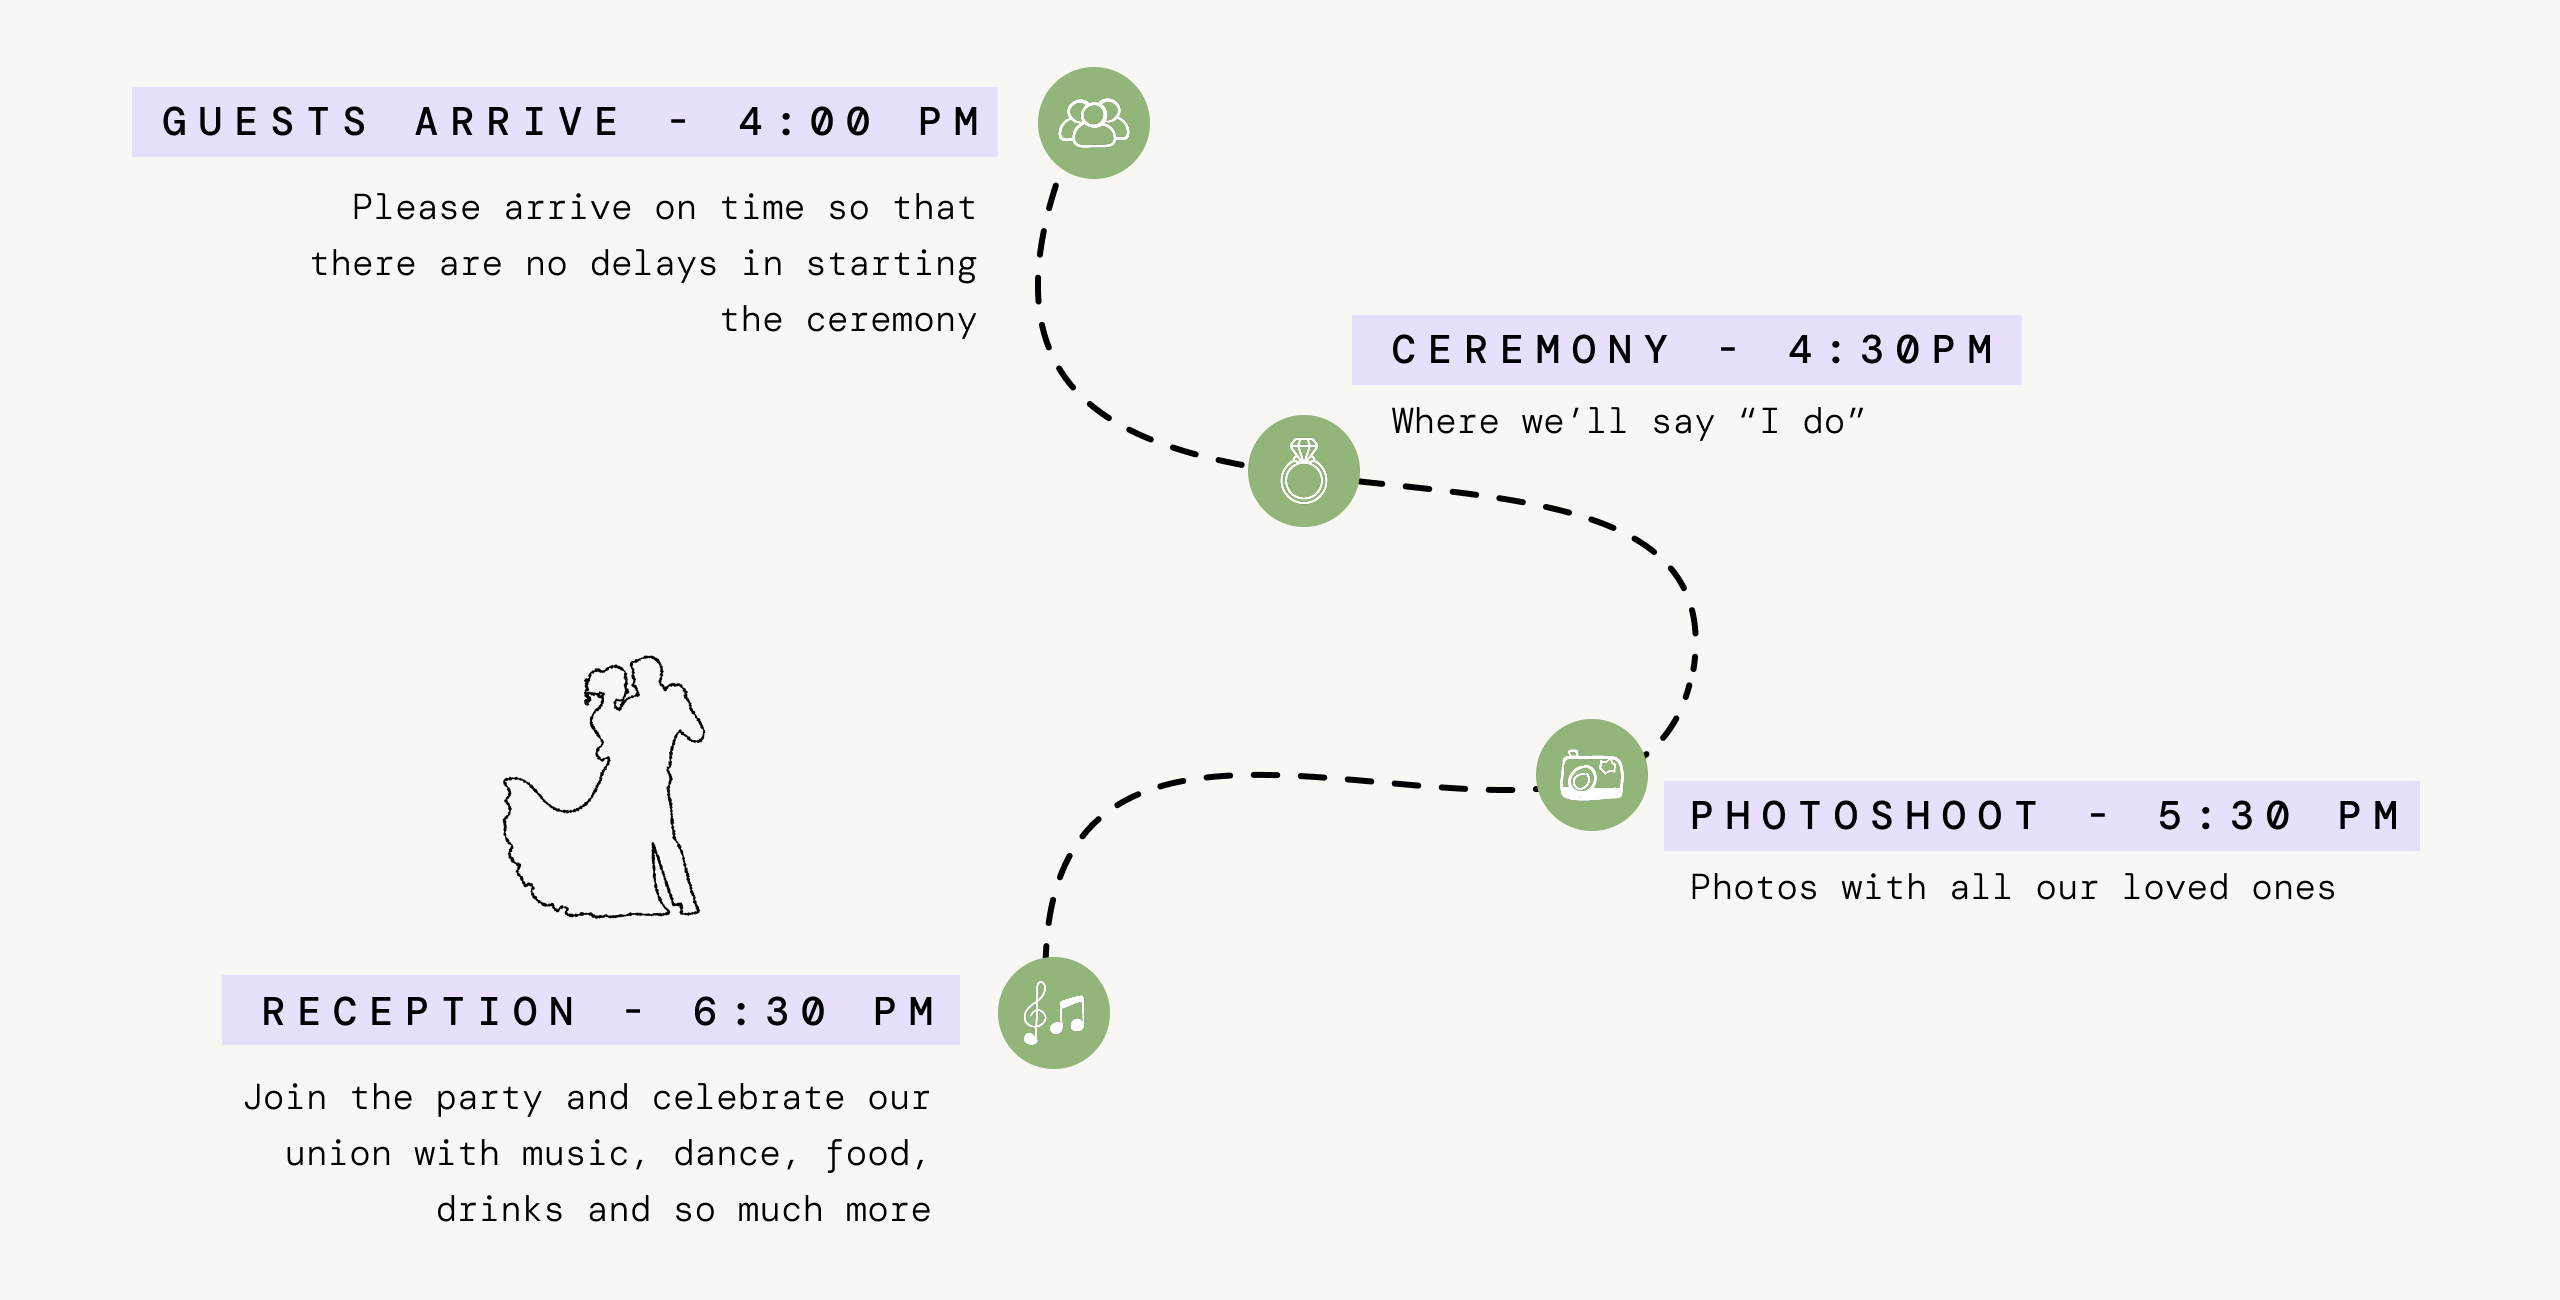
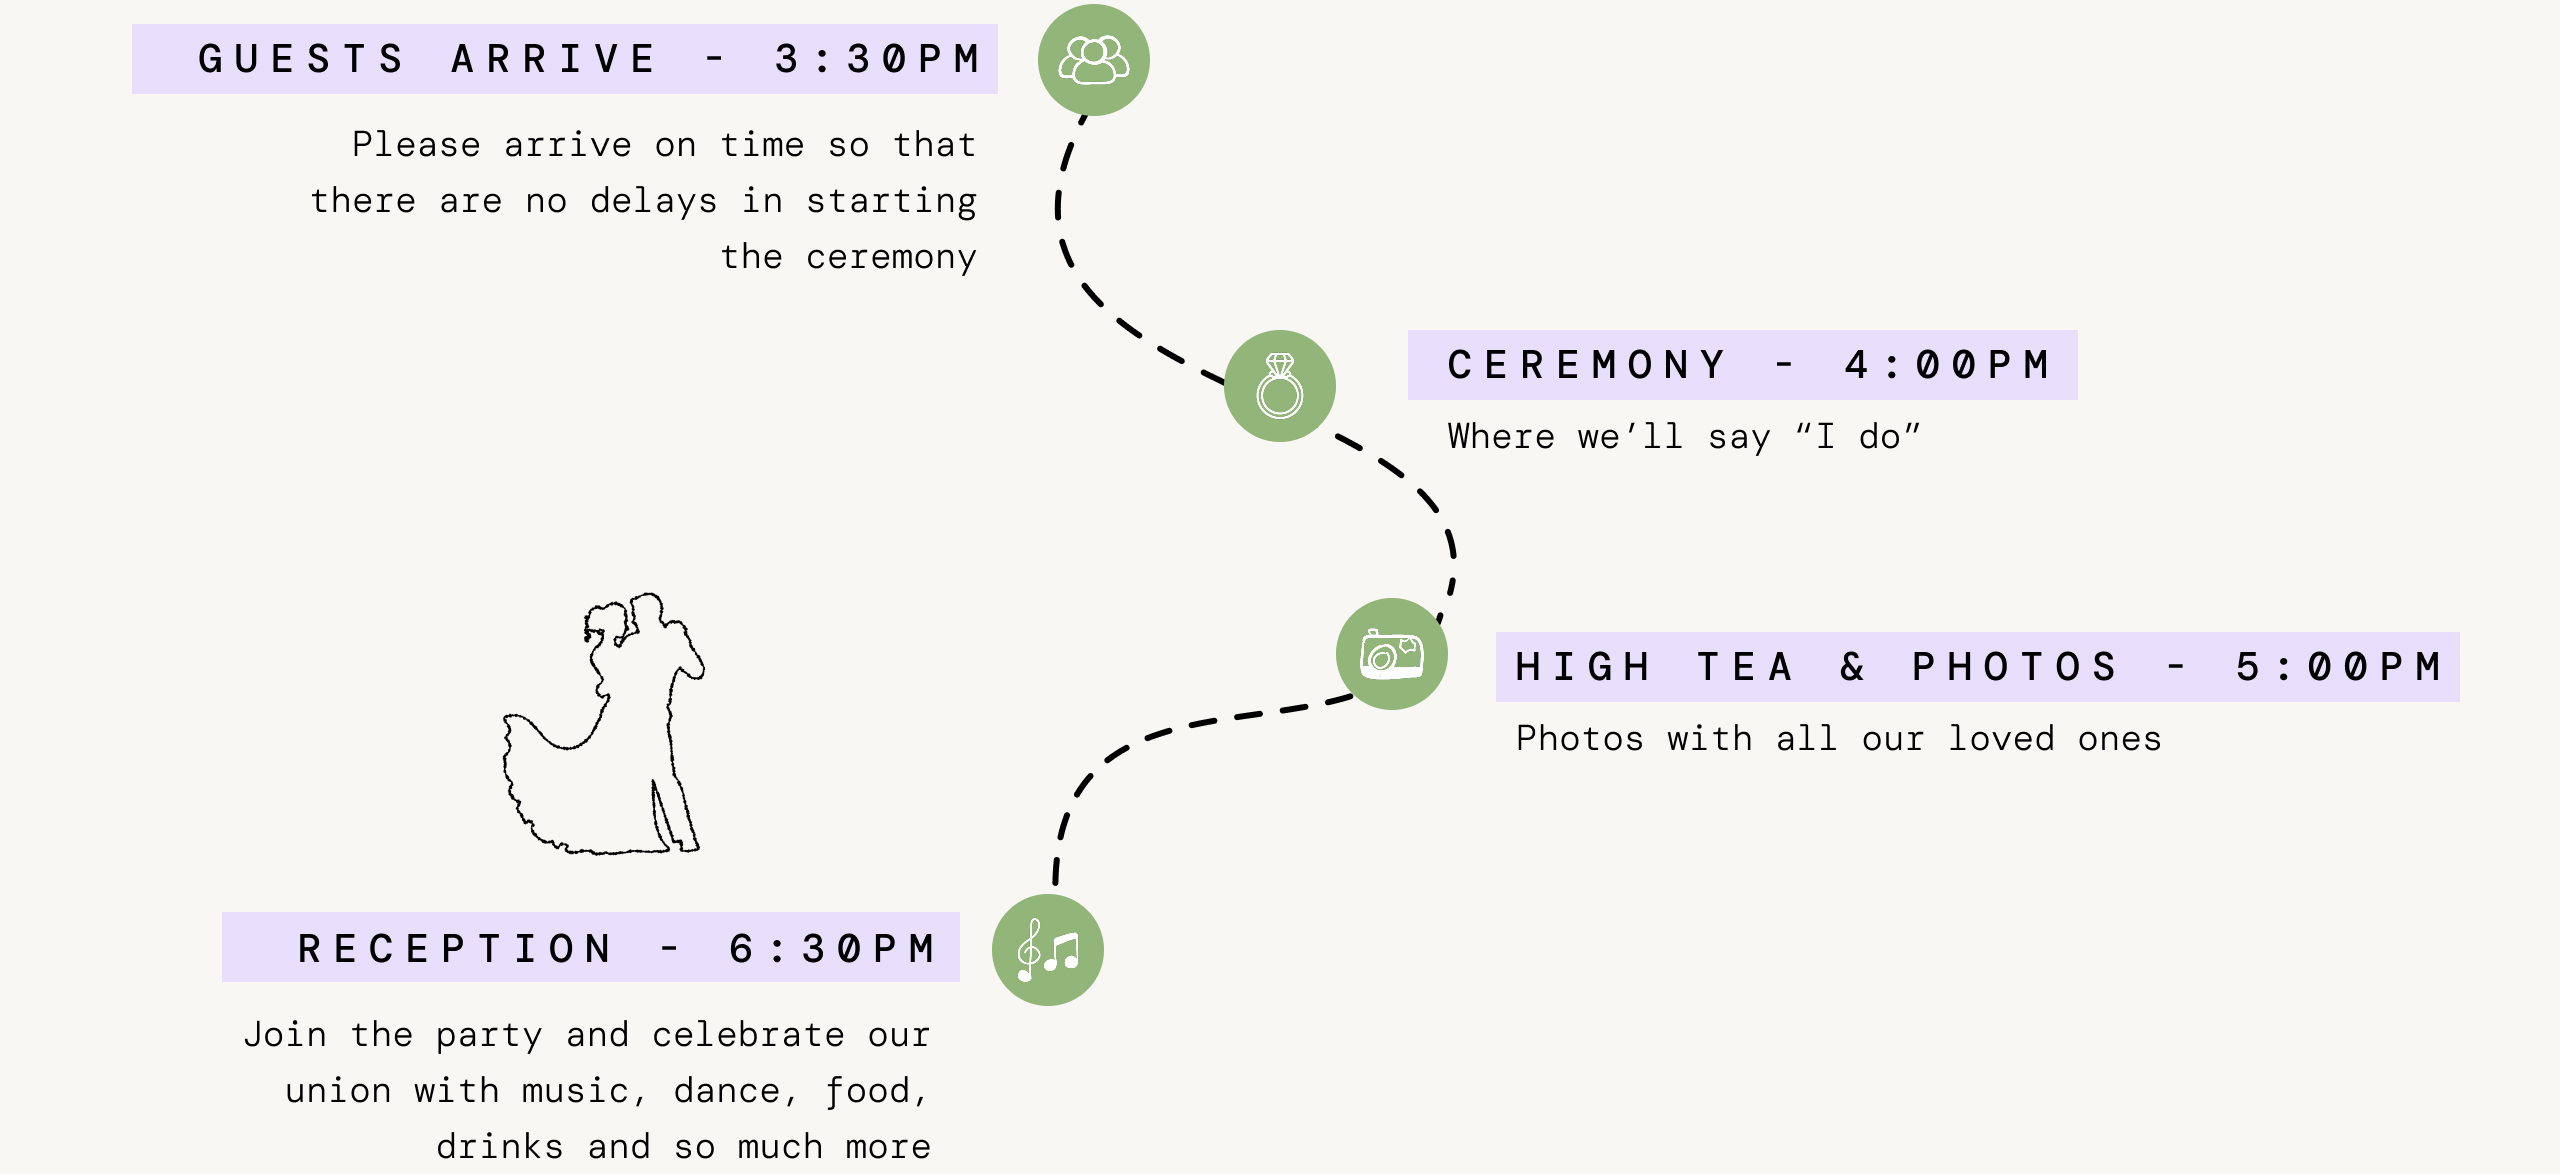
Amends

diff --git a/index.html b/index.html
@@ -128,15 +128,15 @@
       <!-- accessible equivalent of the roadmap graphic above, for screen readers only -->
       <ol class="sr-only timeline-accessible-list">
         <li>
-          <span class="timeline-accessible-time">Guests arrive &ndash; 4:00 PM.</span>
+          <span class="timeline-accessible-time">Guests arrive at venue &ndash; 3:00 PM.</span>
           Please arrive on time so that there are no delays in starting the ceremony.
         </li>
         <li>
-          <span class="timeline-accessible-time">Ceremony &ndash; 4:30 PM.</span>
+          <span class="timeline-accessible-time">Ceremony &ndash; 4:00 PM.</span>
           Where we'll say &ldquo;I do&rdquo;.
         </li>
         <li>
-          <span class="timeline-accessible-time">Photoshoot &ndash; 5:30 PM.</span>
+          <span class="timeline-accessible-time">Photoshoot &ndash; 5:00 PM.</span>
           Photos with all our loved ones.
         </li>
         <li>
@@ -153,7 +153,7 @@
         <span class="info-card-underline info-card-underline--dresscode"></span>
       </div>
       <div class="info-card-col-right">
-        <p class="info-card-intro">Dress to impress. Please wear Western formal attire for the <br> wedding day.</p>
+        <p class="info-card-intro">Dress to impress. Please wear Western ballroom attire for the <br> wedding day.</p>
         <div class="info-card-box info-card-box--dress">white & black are reserved for the
           bride & groom. please refrain from wearing <br> white or black.</div>
       </div>
@@ -184,8 +184,7 @@
       <span class="details-heading-line"></span>
     </div>
     <hr class="title-divider title-divider--details">
-    <p class="info-card-acc">For guests travelling from out of town, we have provided a selection of nearby <br> hotel
-      options for your convenience.</p>
+    <p class="info-card-acc">For guests travelling from out of town, please note that you can book your <br> accommodation at any of the locations below.</p>
 
     <div class="info-card info-card--acc">
       <div class="info-card-col-left">
@@ -222,7 +221,7 @@
           Your presence at our wedding is the greatest gift we could ask for.
         </p>
         <p class="gifts-message">
-          SHOULD YOU WISH TO HONOUR US WITH A GIFT, A MONETARY CONTRIBUTION TOWARD OUR FUTURE TOGETHER VIA CASH ON THE DAY OR BANK TRANSFER WOULD BE SINCERELY APPRECIATED.
+          We do appreciate physical gifts, but please note that monetary gifts would be the easiest for us to accept as a newly married husband and wife moving into a new phase of life.
         </p>
         <button class="bank-details-btn" type="button">
           <b>REQUEST BANK DETAILS</b>
@@ -286,7 +285,7 @@
           RSVP
         </button>
         <p class="rsvp-deadline">
-          LAST DAY TO RSVP DECEMBER 31, 2026
+          LAST DAY TO RSVP <span class="rsvp-deadline-date">DECEMBER 31, 2026</span>
         </p>
       </form>
     </div>
@@ -340,33 +339,43 @@
 
       <div class="faq-answer">
         <p>
-          Our celebration is by invitation only. Immediate family members,
-          including spouses and children, are welcome to attend. We kindly ask
-          that the wedding website and event details not be shared beyond those
-          invited.
+          Our celebration is by invitation only. We kindly ask that the wedding website and event details not be shared beyond those invited.
         </p>
       </div>
     </div>
 
     <div class="faq-item">
       <button class="faq-question" type="button">
-        <span>WHAT IS THE NEAREST AIRPORT?</span>
+        <span>I&rsquo;M TRAVELING INTERNATIONALLY. HOW DO I COME TO THE VENUE?</span>
         <span class="faq-icon">+</span>
       </button>
 
       <div class="faq-answer">
         <p>
-          Ras Al Khaimah (RAK) International Airport is the closest airport to
-          the venue. As flight availability can be limited from RAK airport,
-          many guests may find more convenient options through Dubai
-          International Airport or Sharjah International Airport, both located
-          about an hour's drive away.
+          Please plan for your commute to the venue well in advance. Note the
+          following airports for Sharjah, Dubai, Abu Dhabi, and Ras Al Khaimah
+          and their commute time to the Intercontinental in RAK.
         </p>
 
+        <ul>
+          <li>Ras Al Khaimah International Airport (RKT) &ndash; 30 to 40 minutes</li>
+          <li>Sharjah International Airport (SHJ) &ndash; 50 to 60 minutes</li>
+          <li>Dubai International Airport (DXB) &ndash; 65 to 80 minutes</li>
+          <li>Al Maktoum International Airport (DWC) &ndash; 1 hour 45 minutes to 2 hours</li>
+          <li>Zayed International Airport (AUH) &ndash; 2 hours to 2 hours 30 minutes</li>
+        </ul>
+      </div>
+    </div>
+
+    <div class="faq-item">
+      <button class="faq-question" type="button">
+        <span>WILL THERE BE VEGETARIAN FOOD FOR THE RECEPTION DINNER?</span>
+        <span class="faq-icon">+</span>
+      </button>
+
+      <div class="faq-answer">
         <p>
-          For guests arriving at Sharjah International Airport, a complimentary
-          shuttle service is available between Sharjah and Ras Al Khaimah,
-          offering a convenient transportation option.
+          Yes, there will be options for both vegetarian and non-vegetarian.
         </p>
       </div>
     </div>
@@ -394,9 +403,9 @@
 
   <div class="contact-details">
 
-    <a href="mailto:therubdis@gmail.com" class="contact-item">
+    <a href="mailto:pearlandjohann@gmail.com" class="contact-item">
       <span class="contact-icon">✉</span>
-      <span>THERUBDIS@GMAIL.COM</span>
+      <span>PEARLANDJOHANN@GMAIL.COM</span>
     </a>
 
     <a href="tel:+971501071127" class="contact-item">

diff --git a/css/style.css b/css/style.css
@@ -442,11 +442,12 @@ body.menu-open {
   border-radius: 28px;
   padding: 3rem 4vw;
   max-width: 1200px;
-  margin: 0 auto 3rem;
+  margin: 0 auto;
 }
 
 .info-card.info-card--venue {
   background: var(--color-green-100);
+  margin: 0 auto 4rem;
 }
 
 
@@ -516,7 +517,7 @@ body.menu-open {
 /* ---- Zigzag timeline ---- */
 .timeline {
   max-width: 1200px;
-  margin: 0 auto;
+  margin: 0 auto 4rem;
 }
 
 .timeline-image {
@@ -566,7 +567,6 @@ body.menu-open {
 .accomodation-section {
   padding: 5rem 6rem 0rem 6rem;
   background: var(--color-white);
-  margin: 5rem 0;
 }
 
 .info-card-acc {
@@ -771,16 +771,17 @@ body.menu-open {
 
 .gifts-small {
   font-family: var(--font-mono);
-  font-size: 0.8rem;
+  font-size: 1rem;
   margin-bottom: 1.5rem;
 }
 
 .gifts-message {
   font-family: var(--font-mono);
-  font-size: 0.9rem;
+  font-size: 1.1rem;
   font-weight: 500;
   line-height: 1.8;
   letter-spacing: 0.2em;
+  text-transform: uppercase;
 }
 
 .bank-details-btn {
@@ -884,20 +885,18 @@ body.menu-open {
 .rsvp-form input[type="text"],
 .rsvp-form input[type="email"] {
   width: 100%;
-
   background: var(--color-beige);
-
   border: 1px solid #ddd;
-
   padding: 1rem;
-
   font-family: var(--font-mono);
+}
 
+.rsvp-form input[type="text"] {
   margin-bottom: 1rem;
 }
 
 .rsvp-field {
-  margin-top: 2rem;
+  margin-top: 2.8rem;
 }
 
 .rsvp-label {
@@ -995,9 +994,13 @@ body.menu-open {
   text-align: center;
 
   font-family: var(--font-mono);
-  font-size: 0.65rem;
+  font-size: 0.8rem;
 
   letter-spacing: 0.25em;
+}
+
+.rsvp-deadline-date {
+  font-weight: 500;
 }
 
 .radio-row input[type="radio"] {
@@ -1161,7 +1164,7 @@ body.menu-open {
   margin: 0;
 
   font-family: var(--font-mono);
-  font-size: 0.8rem;
+  font-size: 1rem;
   font-weight: 500;
   letter-spacing: 0.35em;
 }
@@ -1204,7 +1207,7 @@ body.menu-open {
   color: var(--color-text);
 
   font-family: var(--font-mono);
-  font-size: 0.85rem;
+  font-size: 1rem;
   font-weight: 500;
   line-height: 1.4;
   letter-spacing: 0.32em;
@@ -1285,7 +1288,7 @@ body.menu-open {
   padding: 0 3rem 1.35rem 0;
 
   font-family: var(--font-mono);
-  font-size: 0.78rem;
+  font-size: 1rem;
   font-weight: 300;
   line-height: 1.7;
   letter-spacing: 0.04em;
@@ -1294,6 +1297,19 @@ body.menu-open {
 /* Space only between paragraphs inside an OPEN answer */
 .faq-answer p + p {
   padding-top: 0.5rem;
+}
+
+.faq-answer ul {
+  margin: 0 0 1.35rem 0;
+  padding: 0 3rem 0 0;
+}
+
+.faq-answer li {
+  font-family: var(--font-mono);
+  font-size: 0.78rem;
+  font-weight: 300;
+  line-height: 1.7;
+  letter-spacing: 0.04em;
 }
 
 /* =====================================================
